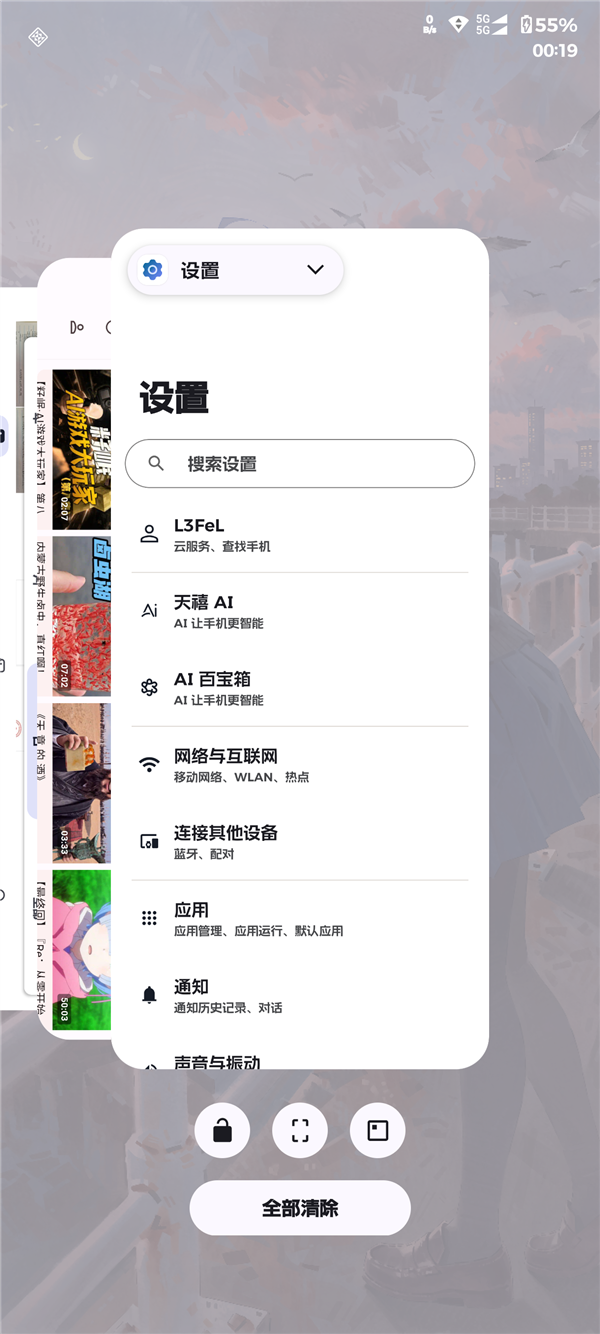
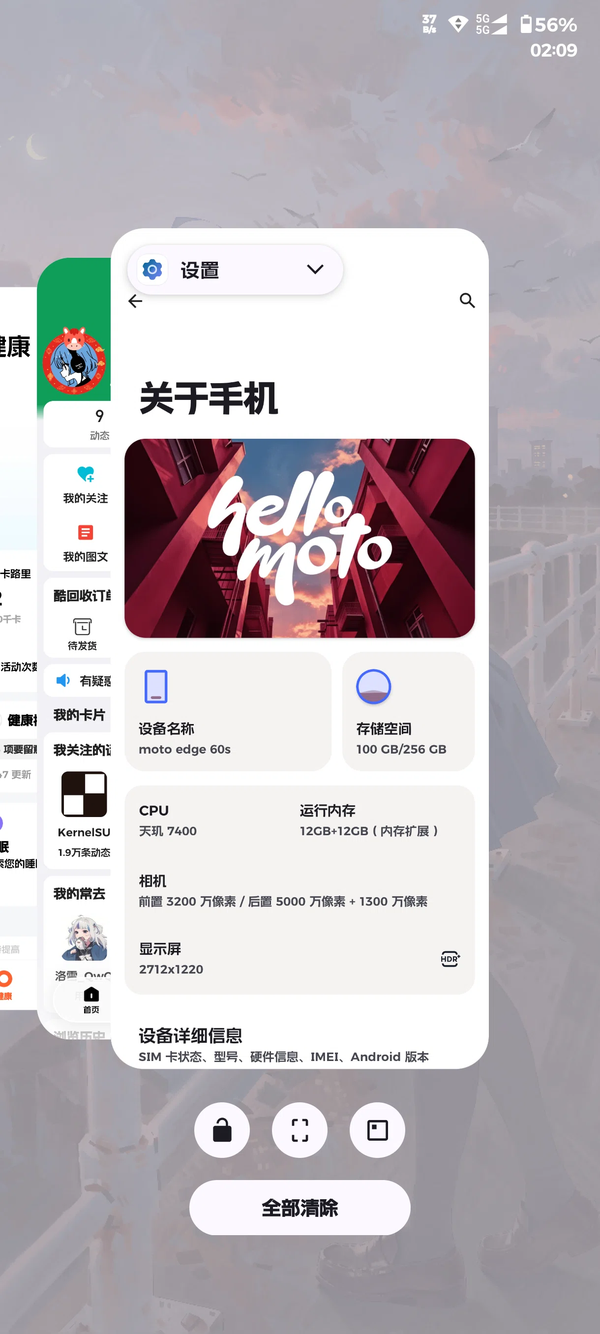
Release v1.0 polish: new overview screenshot, author L3FeL, README AI-generated note

diff --git a/README.md b/README.md
@@ -12,7 +12,7 @@
 > and reboot. Requires root + KernelSU. See [`docs/HOW-IT-WORKS.md`](docs/HOW-IT-WORKS.md) for the
 > mechanism. Licence: GPL-3.0.
 
-**当前版本 v1.0**（首个公开发布版）。模块 ID `axion_recents`。
+**当前版本 v1.0**（首个公开发布版）。模块 ID `axion_recents`，作者 **L3FeL**。
 
 ![堆叠式后台](docs/screenshot.png)
 
@@ -176,3 +176,9 @@ AxionRecents/
 * `payload/AxionLauncher3.apk` 由 **AxionOS / Lawnchair / AOSP Launcher3** 派生的源码构建，
   相应权利归其各自作者；`AxStack*` 堆叠式 Overview 实现来自 AxionOS/Lawnchair 一侧。
 * 感谢 AOSP Launcher3、Lawnchair、AxionOS 以及 KernelSU 生态。
+* **本仓库的代码与文档由 AI 生成**：模块脚本（`customize.sh` / `post-fs-data.sh` / `service.sh` /
+  `boot-completed.sh`）、RRO 源码、`tools/` 构建脚本、README / CHANGELOG / `docs/HOW-IT-WORKS.md`
+  以及 `payload/AxionLauncher3.apk` 里的改动，都是在 AI 编码助手（DeepSeek Harness 中的 agent）协助下
+  写出来的；需求、真机测试、回归验证与最终发布由作者 **L3FeL** 完成。
+  使用前请自行阅读脚本、理解它在你的设备上做了什么（尤其是 priv-app 镜像、HOME 角色交接和
+  静态 RRO 这三件事）。
